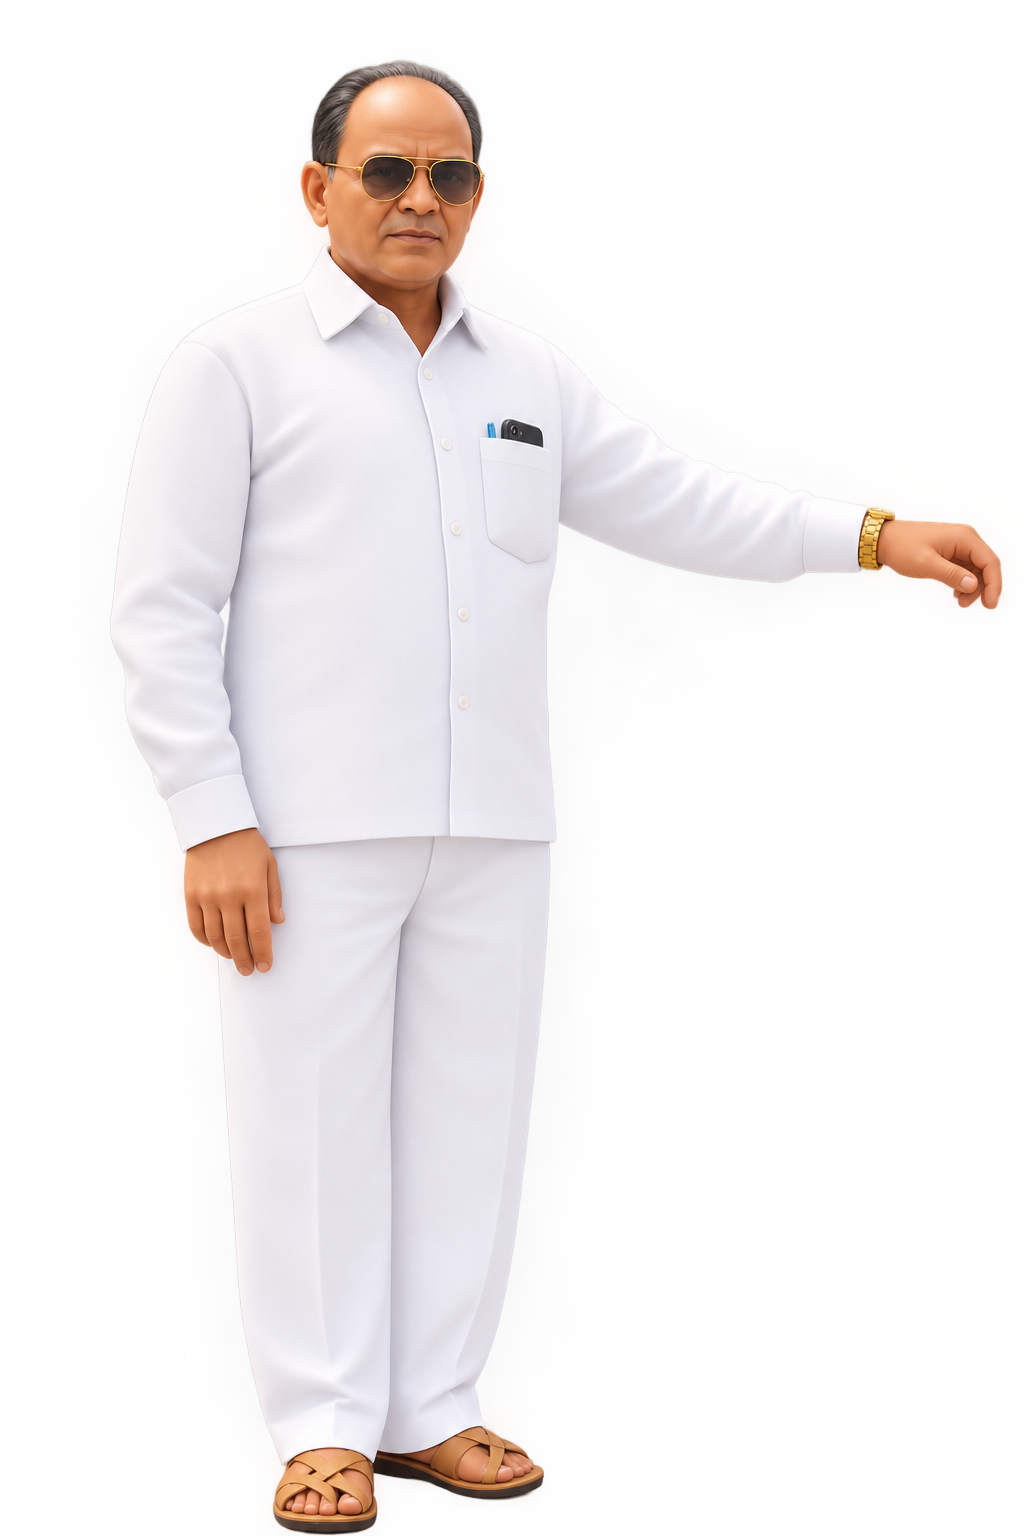
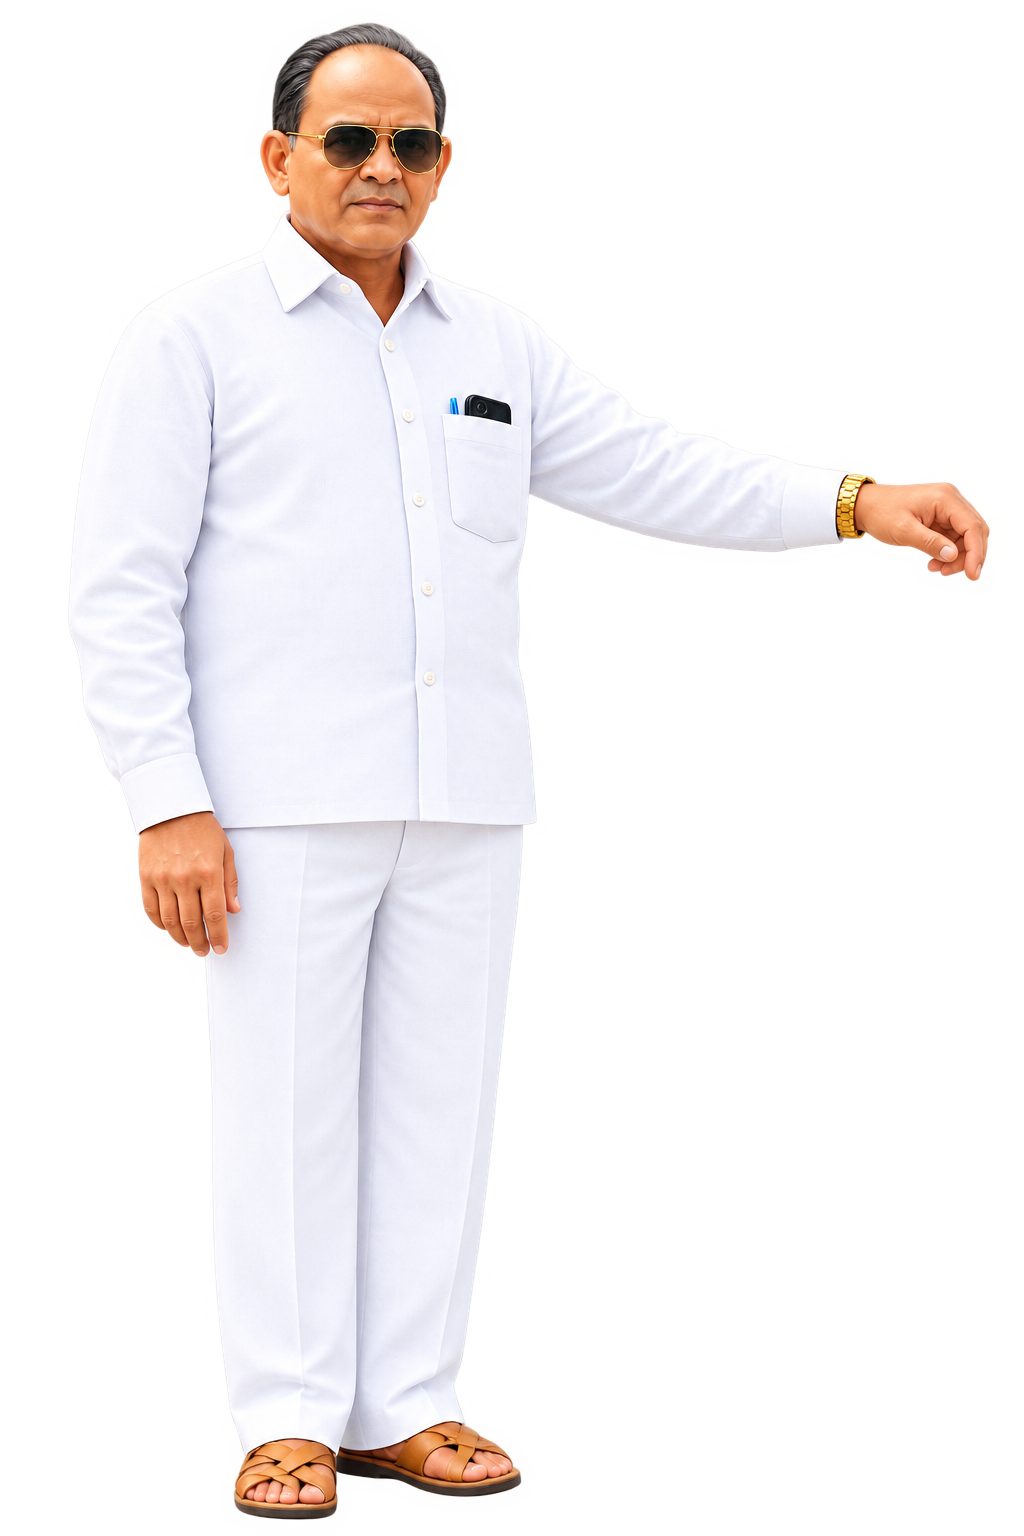
Login: hide the sign-up link, update the photo; ignore dist-apk

Changed region(s): [[0.125, 0.0, 1.0, 1.0], [0.4375, 0.4375, 0.4688, 0.4688]]

diff --git a/src/app/pages/login/login.page.scss b/src/app/pages/login/login.page.scss
@@ -79,12 +79,13 @@ ion-content {
   opacity: var(--login-shape-opacity);
 }
 
-/* The host fills a 289 × 566 slot in the design (as cropped there). */
+/* The host fills a 280 × 511 slot in the design (measured from the updated frame with
+   the current photo: head at y≈112, hand at x≈283, feet at y≈609). */
 .host {
-  left: calc(-21.94 * var(--s));
-  top: top-at(70.84);
-  width: calc(289.35 * var(--s));
-  height: calc(566.4 * var(--s));
+  left: calc(12.4 * var(--s));
+  top: top-at(115);
+  width: calc(280.2 * var(--s));
+  height: calc(510.6 * var(--s));
 }
 
 .masthead {
@@ -240,7 +241,7 @@ ion-content {
   display: flex;
   flex-direction: column;
   align-items: center;
-  gap: calc(22 * var(--s));
+  gap: calc(60 * var(--s));
 }
 
 .login {
@@ -318,3 +319,4 @@ ion-content {
     text-decoration: none;
   }
 }
+

diff --git a/src/app/pages/login/login.page.html b/src/app/pages/login/login.page.html
@@ -70,7 +70,7 @@
 
       <footer class="links">
         <button type="button" class="about" (click)="aboutUs()">About us</button>
-        <p class="switch">Don’t have an account? <a routerLink="/register">Sign up</a></p>
+        <!-- <p class="switch">Don’t have an account? <a routerLink="/register">Sign up</a></p> -->
       </footer>
     </div>
   </div>
